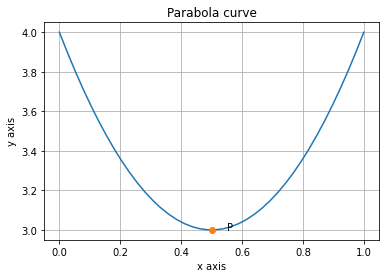
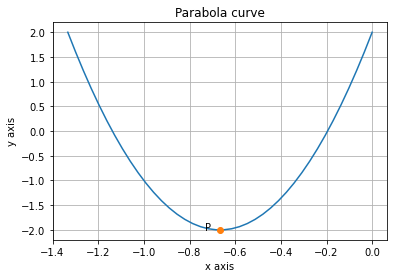
Add files via upload

diff --git a/Assignment4/main.tex b/Assignment4/main.tex
@@ -264,31 +264,27 @@ https://github.com/rubeenaafreen20/EE5600AI-ML/tree/master/Assignment4
 \section{Problem}
 Find the maximum and minimum values, if any, of the follwing function
 \begin{align}
-    f(x)=(2x-1)^2+3 \label{eq:1}
+    f(x)=9x^2+12x+2 \label{eq:1}
 \end{align}
 	
 \section{Solution}
-The given equation \eqref{eq:1} can be written as
-\begin{align}
-    f(x)=4x^2-4x+4
-\end{align}
 At the point where maxima / minima occurs, slope is zero. Therefore, we differentiate f(x) w.r.t x
 \begin{align}
     \frac{df(x)}{dx}=0\\
-    \implies 4(2x)-4(1)+0=0\\
-    \implies 8x-4=0\\
-    \implies x=0.5
+    \implies 9(2x)+12(1)+2=0\\
+    \implies 18x+12=0\\
+    \implies x=-\frac{2}{3}
 \end{align}
-Now, to know that x=0.5 is maxima or minima, we calculate $f''(x)$
+Now, to know whether $x=-\frac{2}{3}$ is maxima or minima, we calculate $f''(x)$
 \begin{align}
-    \frac{d''f(x)}{dx}=8\\
+    \frac{d''f(x)}{dx}=18
 \end{align}
-$\because   \frac{d''f(x)}{dx}>0$, therefore,  we can conclude that x=0.5 is a minima.\\
-Value of $f(x)$ at x=0.5 is
+$\because\frac{d''f(x)}{dx}>0$, therefore,  we can conclude that $x=-\frac{2}{3}$ is a minima.\\
+Value of $f(x)$ at $x=-\frac{2}{3}$ is
 \begin{align}
-    f(0.5)=4(0.5)^2-4(0.5)+4\\
-        =4(0.25)-2+4
-        =3
+    f(-\frac{2}{3})=9(-\frac{2}{3})^2+12(-\frac{2}{3})+2\\
+        =4-8+2
+        =-2
 \end{align}
 Figure \ref{Fig:1} shows plot of parabola obtained from python code:
 \begin{figure}[h]
